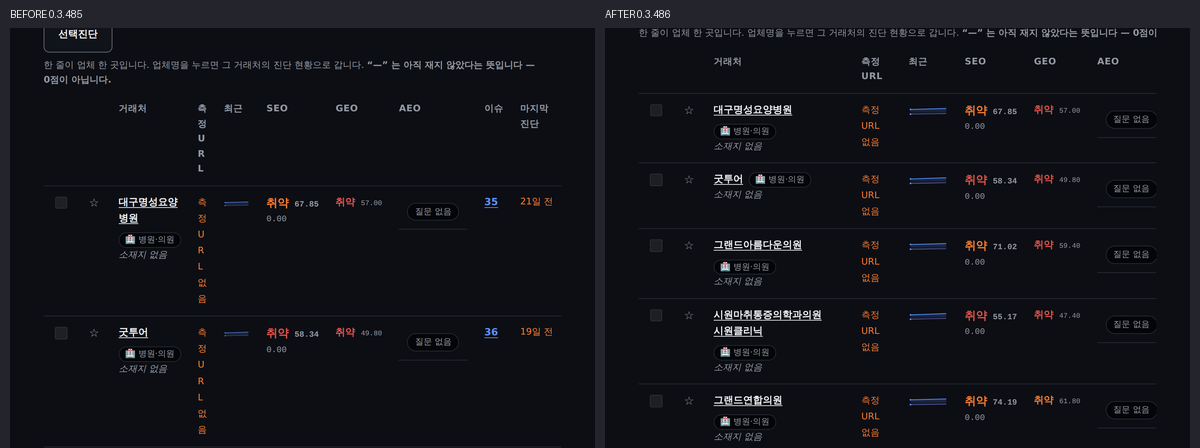
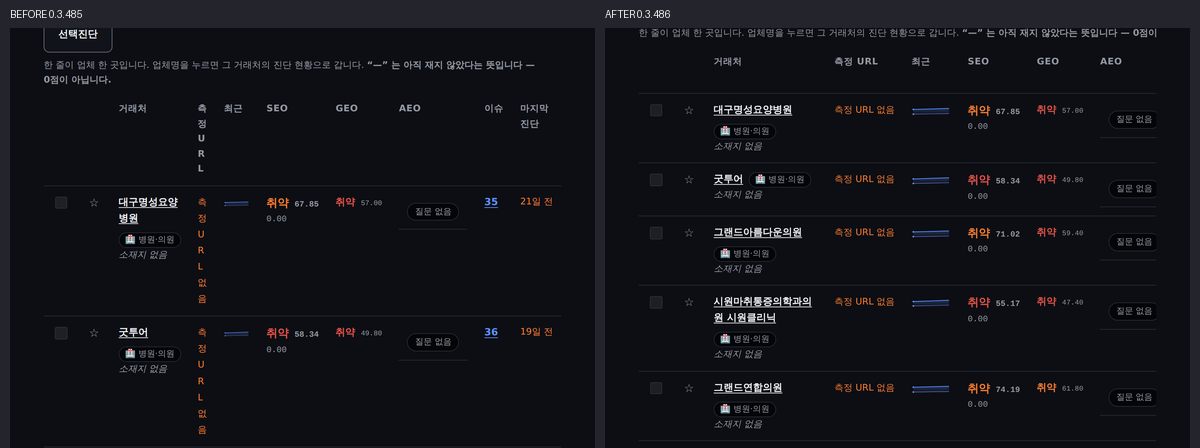
docs: 반응형 대조표 — 결함 15곳으로 갱신, 후판 캡처 축소본 재생성
Claude-Session: https://claude.ai/code/session_01V54iwhfetCsLpSucANNZ51

diff --git a/docs/ANSEO-반응형-대조표.md b/docs/ANSEO-반응형-대조표.md
@@ -36,6 +36,8 @@
 | 11 | AEO 흐름(1 키워드 조사 → … → 4 결과 보기) | 모바일 | 두 줄로 접히며 **화살표가 줄 끝에 매달림** | ≤40rem 2칸 격자·화살표 접음(번호가 차례) | `aeo-flow.module.css` |
 | 12 | 「AI 별 언급 — 몇 번 나왔나」 막대(대시보드·거래처 AEO 탭) | 모바일 | 수 칸(«18/196 (9.18%)»·«이번 관측에서 안 물었습니다»)이 화면 밖으로 **14~56px 넘침** — 좁은 폭 규칙이 `display: contents` 인 `.row` 에 걸려 죽어 있었다 | 열을 격자(`.bars`)로 옮김: 이름 윗줄, 막대·수 아랫줄, 수는 줄바꿈 허용 | `packages/ui …/RatioBars.module.css` |
 | 13 | 거래처 표 «측정 URL 없음» | 태블릿 | 세 줄로 꺾여 경고가 낱말 더미로 읽힘 | `nowrap`(표는 감싸개가 흐름) | `companies.module.css` |
+| 14 | 거래처 AEO 탭 「저장된 집합」 상자 | 모바일 | 최소폭 340px 고정이라 칸보다 넓어 **28px 넘침** | `minmax(min(340px, 100%), 1fr)` | `geo.module.css` |
+| 15 | 거래처 AEO 탭 「회차별 언급률 변화」 그림 | 모바일 | 오른쪽 계열 이름표가 그림 밖(`overflow: visible`)으로 그려져 **20px 넘침** | ≤40rem 이름표 접고 그림을 칸 안에(위 순위 목록이 같은 이름·값을 말함) | `mention-share.module.css` |
 
 ### 전후 축소본 (`docs/screens-반응형/`)
 
@@ -62,13 +64,13 @@
 
 ## 3. 화면별 판정 (28화면 × 3폭)
 
-빈 표본으로 찍은 84장 가운데 **가로 넘침이 잡힌 것은 모바일 대시보드 하나**(전역 메뉴 #3 — 후 판에서 0). 나머지 27화면은 세 폭 다 한 기둥으로 접히고 넘치지 않는다. 데이터가 차야 보이는 결함(#1·2·6~13)은 덮개판에서 잡았다.
+빈 표본으로 찍은 84장 가운데 **가로 넘침이 잡힌 것은 모바일 대시보드 하나**(전역 메뉴 #3 — 후 판에서 0). 나머지 27화면은 세 폭 다 한 기둥으로 접히고 넘치지 않는다. 데이터가 차야 보이는 결함(#1·2·6~15)은 덮개판에서 잡았다.
 
 | 화면 | PC | 태블릿 | 모바일 | 비고 |
 | --- | --- | --- | --- | --- |
 | /console/dashboard | #1·#2 → 고침 | #4·#6·#7 → 고침 | #3·#12 → 고침 | 덮개판 실측 |
 | /console/customers | 양호 | #4·#9·#13 → 고침 | #3·#9 → 고침 | |
-| /console/customers/[id] (진단·SEO·GEO·AEO·콘텐츠·이슈·리포트 탭) | 양호 | #8 → 고침 | #8·#12 → 고침 · 탭 줄은 가로 스크롤(기존 규칙) | 거래처 줄은 폭마다 접힘 확인 |
+| /console/customers/[id] (진단·SEO·GEO·AEO·콘텐츠·이슈·리포트 탭) | 양호 | #8 → 고침 | #8·#12·#14·#15 → 고침 · 탭 줄은 가로 스크롤(기존 규칙) | 거래처 줄은 폭마다 접힘 확인 |
 | /console/customers/new · projects · [id]/edit · journey | #5 → 고침(new) | 양호 | 양호 | edit·journey 는 표본 없어 404 확인만 |
 | /console/issues · issues/[id] | 양호 | 양호 | #10 → 고침 | |
 | /console/geo | 양호 | 양호 | #11 → 고침 | |
